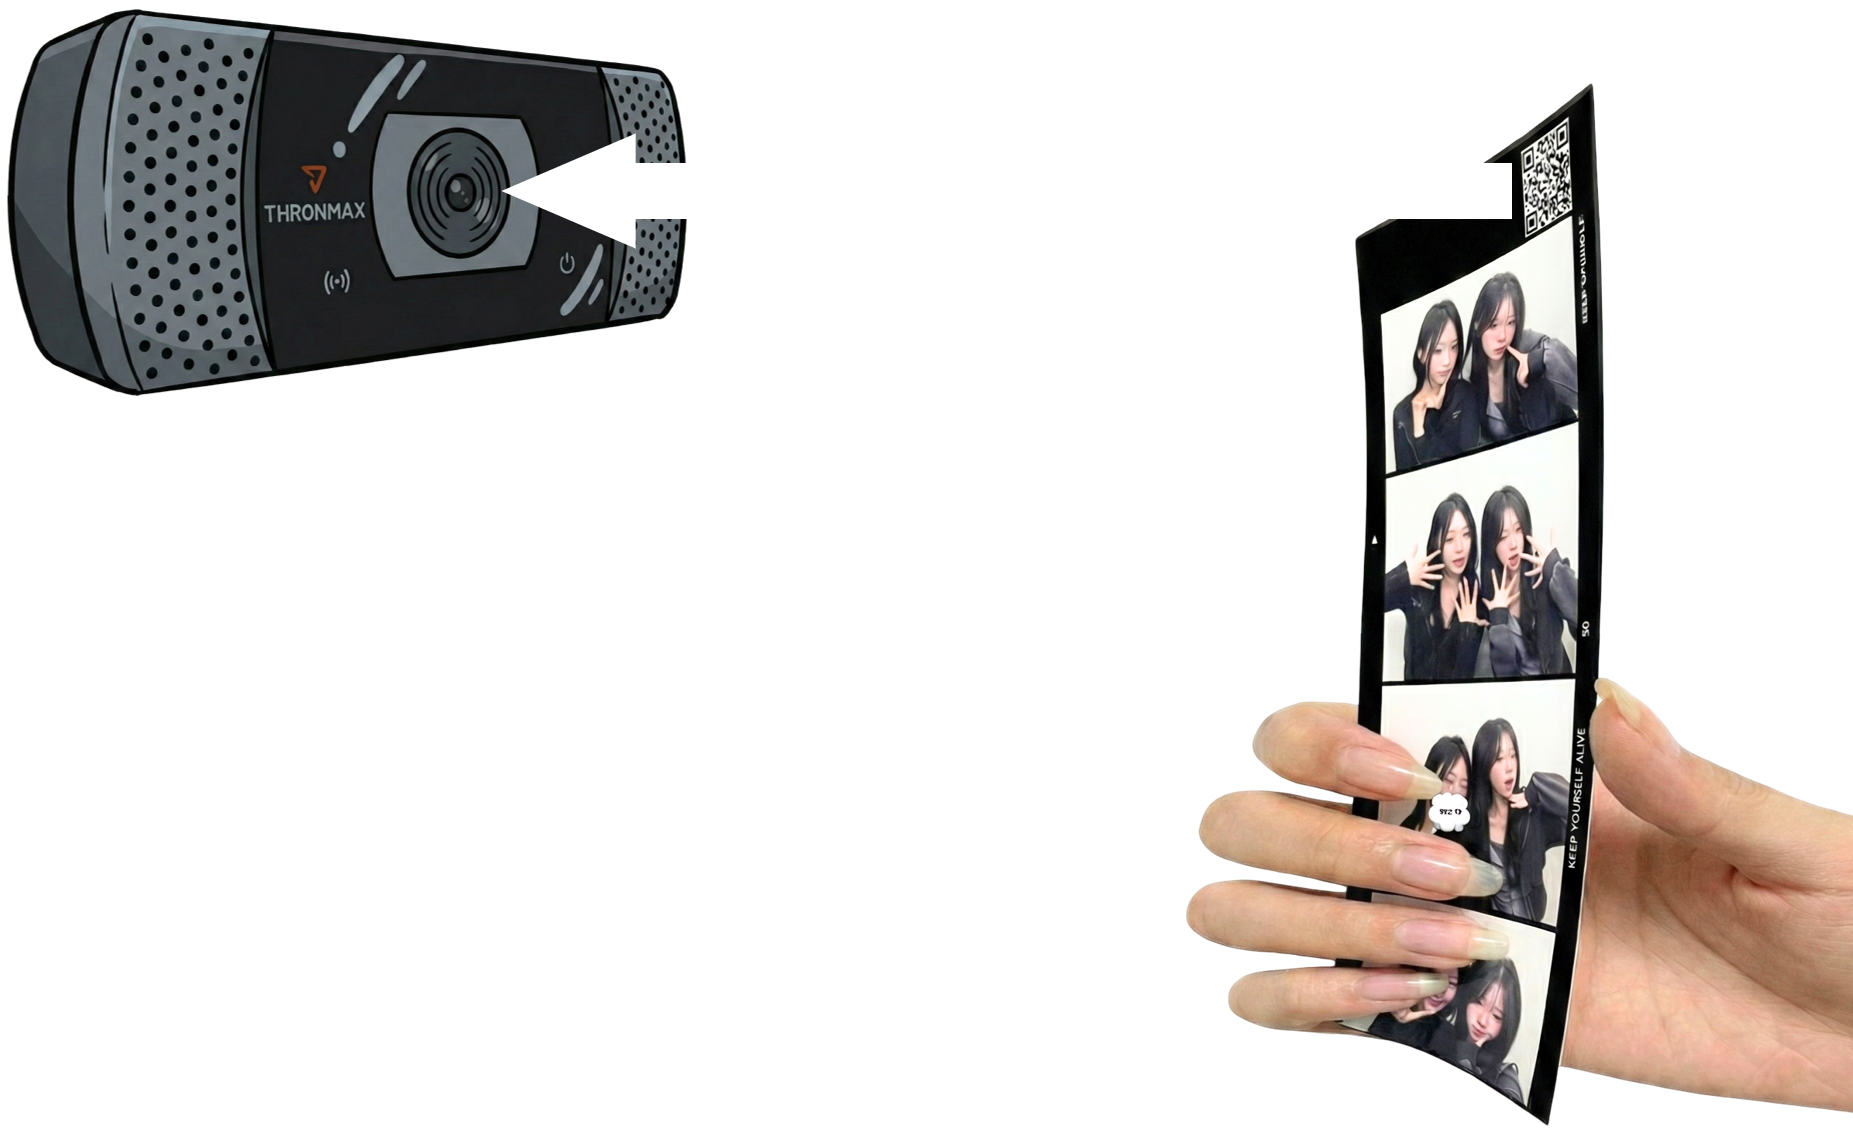
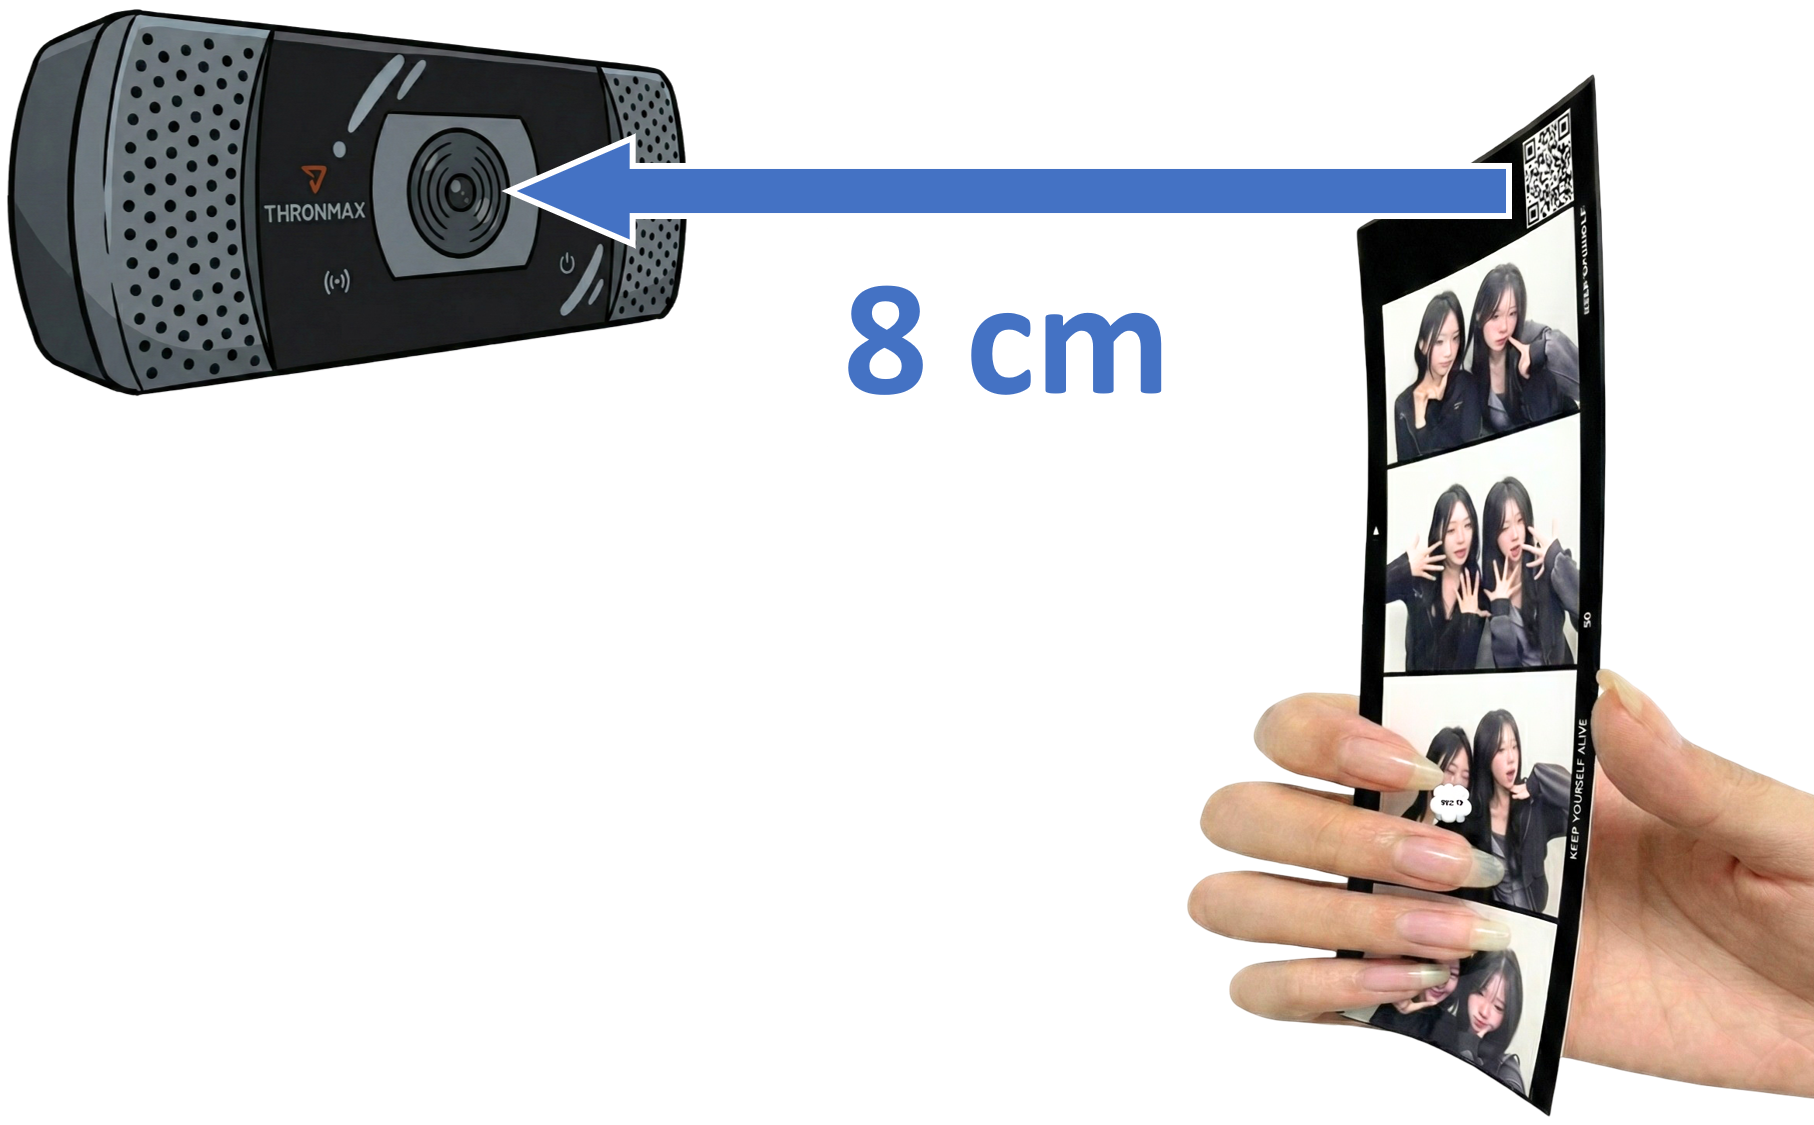
adjust UI QR page

Changed region(s): [[0.0309, 0.0, 1.0, 0.9956], [0.4631, 0.2489, 0.6483, 0.3733]]

diff --git a/src/pages/scan-qr/Page.tsx b/src/pages/scan-qr/Page.tsx
@@ -74,11 +74,11 @@ const ScanQRPage = () => {
 
   return (
     // Container chính - Quay lại Gradient Hồng Đỏ tươi sáng
-    <div className="relative h-screen w-screen overflow-hidden bg-linear-to-br from-[#e60076] via-[#df197f] to-[#fe389e]">
+    <div className="relative h-screen w-screen overflow-hidden bg-white">
       <FloatingStyles />
 
       {/* --- BACKGROUND DECORATION & FLOATING ICONS --- */}
-      <div className="absolute inset-0 overflow-hidden pointer-events-none z-0">
+      <div className="absolute inset-0 overflow-hidden pointer-events-none z-20">
         {/* Nền họa tiết nhẹ */}
         <div className="absolute top-0 left-0 w-full h-full opacity-30 bg-[url('https://www.transparenttextures.com/patterns/cubes.png')]"></div>
         {/* Blobs màu tạo chiều sâu */}
@@ -100,7 +100,7 @@ const ScanQRPage = () => {
               strokeWidth="1.5"
               strokeLinecap="round"
               strokeLinejoin="round"
-              className="text-white drop-shadow-lg"
+              className="text-main-cl drop-shadow-lg"
             >
               <path d="M20.38 3.46 16 2a4 4 0 0 1-8 0L3.62 3.46a2 2 0 0 0-1.34 2.23l.58 3.47a1 1 0 0 0 .99.84H6v10c0 1.1.9 2 2 2h8a2 2 0 0 0 2-2V10h2.15a1 1 0 0 0 .99-.84l.58-3.47a2 2 0 0 0-1.34-2.23z" />
             </svg>
@@ -120,7 +120,7 @@ const ScanQRPage = () => {
               strokeWidth="1.5"
               strokeLinecap="round"
               strokeLinejoin="round"
-              className="text-white drop-shadow-md"
+              className="text-main-cl drop-shadow-md"
             >
               <path d="M10 2v2" />
               <path d="M14 2v2" />
@@ -143,7 +143,7 @@ const ScanQRPage = () => {
               strokeWidth="1.5"
               strokeLinecap="round"
               strokeLinejoin="round"
-              className="text-white drop-shadow-lg"
+              className="text-main-cl drop-shadow-lg"
             >
               <path d="M6 2 3 6v14a2 2 0 0 0 2 2h14a2 2 0 0 0 2-2V6l-3-4Z" />
               <path d="M3 6h18" />
@@ -165,7 +165,7 @@ const ScanQRPage = () => {
               strokeWidth="1.5"
               strokeLinecap="round"
               strokeLinejoin="round"
-              className="text-white drop-shadow-md"
+              className="text-main-cl drop-shadow-md"
             >
               <rect width="14" height="20" x="5" y="2" rx="2" ry="2" />
               <path d="M12 18h.01" />
@@ -186,7 +186,7 @@ const ScanQRPage = () => {
               strokeWidth="1.5"
               strokeLinecap="round"
               strokeLinejoin="round"
-              className="text-white drop-shadow-md"
+              className="text-main-cl drop-shadow-md"
             >
               <rect x="3" y="8" width="18" height="4" rx="1" />
               <path d="M12 8v13" />
@@ -209,7 +209,7 @@ const ScanQRPage = () => {
               strokeWidth="1.5"
               strokeLinecap="round"
               strokeLinejoin="round"
-              className="text-white drop-shadow-md"
+              className="text-main-cl drop-shadow-md"
             >
               <circle cx="12" cy="12" r="6" />
               <polyline points="12 10 12 12 13 13" />
@@ -232,7 +232,7 @@ const ScanQRPage = () => {
               strokeWidth="1.5"
               strokeLinecap="round"
               strokeLinejoin="round"
-              className="text-white drop-shadow-sm"
+              className="text-main-cl drop-shadow-sm"
             >
               <rect width="18" height="18" x="3" y="3" rx="2" ry="2" />
               <circle cx="9" cy="9" r="2" />
@@ -254,7 +254,7 @@ const ScanQRPage = () => {
               strokeWidth="1.5"
               strokeLinecap="round"
               strokeLinejoin="round"
-              className="text-white drop-shadow-sm"
+              className="text-main-cl drop-shadow-sm"
             >
               <path d="m15.5 7.5 2.3 2.3a1 1 0 0 0 1.4 0l2.1-2.1a1 1 0 0 0 0-1.4L19 4" />
               <path d="m21 2-9.6 9.6" />
@@ -265,44 +265,50 @@ const ScanQRPage = () => {
       </div>
 
       {/* --- HƯỚNG DẪN QUÉT QR (BÊN TRÁI) --- */}
-      <div className="5xl:text-xl text-base absolute left-6 top-1/2 w-[28vw] -translate-y-1/2 z-30 pointer-events-auto">
-        <div className="glass-panel rounded-3xl p-4 pb-2 shadow-2xl">
+      <div className="5xl:text-xl text-base absolute left-6 top-4 w-[29vw] z-30 pointer-events-auto">
+        <div className="bg-gray-100 border border-gray-400 rounded-xl p-4 pb-2">
           {/* Header */}
-          <h2 className="text-[1.5rem] font-extrabold text-white text-center mb-4 tracking-wide">
+          <h2 className="text-[1.5rem] font-extrabold text-main-cl text-center mb-4 tracking-wide">
             HƯỚNG DẪN QUÉT QR
           </h2>
 
           {/* Các bước hướng dẫn */}
-          <div className="space-y-4">
+          <div className="flex flex-col items-start space-y-4">
             {/* Bước 1: Hướng QR vào webcam */}
-            <div className="flex flex-col items-center text-center">
-              <p className="text-white font-bold text-[1em] mb-1">
-                <span className="text-white">1. </span>
+            <div className="flex flex-col items-center">
+              <p className="flex gap-2 text-black font-bold text-[1em] mb-1">
+                <span className="flex items-center justify-center leading-none h-8 min-w-8 bg-main-cl rounded-full text-white">
+                  1.
+                </span>
                 <span className="">Hướng mã QR trên ảnh photobooth vào webcam</span>
               </p>
-              <div className="flex gap-2 items-center justify-center mb-3">
+              <div className="flex gap-2 items-center justify-center mb-3 w-full">
                 <img className="w-60" src="/images/design-qr-page/front.png" alt="Photobooth" />
               </div>
             </div>
 
             {/* Bước 1: Hướng QR vào webcam */}
-            <div className="flex flex-col items-center text-center">
-              <p className="text-white font-bold text-[1em] mb-1">
-                <span className="text-white">2. </span>
-                <span>Giữ khoảng cách ảnh với camera 8cm</span>
+            <div className="flex flex-col items-center">
+              <p className="flex gap-2 text-black font-bold text-[1em] mb-1">
+                <span className="flex items-center justify-center leading-none h-8 min-w-8 bg-main-cl rounded-full text-white">
+                  2.
+                </span>
+                <span>Giữ khoảng cách ảnh với camera khoảng 8cm</span>
               </p>
-              <div className="flex gap-2 items-center justify-center mb-3">
+              <div className="flex gap-2 items-center justify-center mb-3 w-full">
                 <img className="w-78" src="/images/design-qr-page/cm8.png" alt="Photobooth" />
               </div>
             </div>
 
             {/* Bước 3: Giữ khoảng cách 8cm */}
-            <div className="flex flex-col items-center text-center">
-              <p className="text-white font-bold text-[1em] mb-1">
-                <span className="text-white">3. </span>
-                <span>Căn chỉnh mã QR của bạn lọt vào khung hình camera</span>
+            <div className="flex flex-col items-center">
+              <p className="flex gap-2 text-black font-bold text-[1em] mb-1">
+                <span className="flex items-center justify-center leading-none h-8 min-w-8 bg-main-cl rounded-full text-white">
+                  3.
+                </span>
+                <span>Đưa mã QR của bạn vào khung hình camera</span>
               </p>
-              <div className="bg-white/30 p-1.5 rounded-2xl flex items-center justify-center mb-3 relative">
+              <div className="bg-white p-1.5 rounded-2xl flex items-center justify-center mb-3 w-full relative">
                 <img className="w-60" src="/images/design-qr-page/chu-y-qr.png" alt="Ruler" />
               </div>
             </div>
@@ -313,35 +319,34 @@ const ScanQRPage = () => {
       {/* HEADER (TOP CENTER) */}
       <section
         id="scan-qr-area"
-        className="pt-6 flex flex-col h-full items-center relativ w-full text-center z-20 pointer-events-none"
+        className="5xl:py-6 pt-6 flex flex-col h-full items-center relative w-full text-center z-20 pointer-events-none"
       >
-        <div className="flex flex-col h-full items-center gap-4 w-[38vw]">
-          <h1 className="smd:text-3xl block text-xl md:text-5xl font-extrabold text-white drop-shadow-lg uppercase tracking-wide">
-            QUÉT MÃ QR PHOTBOOTH
+        <div className="5xl:justify-center flex flex-col h-full items-center gap-4 w-[38vw]">
+          <h1 className="smd:text-3xl block text-xl md:text-5xl font-extrabold text-main-cl uppercase tracking-wide">
+            QUÉT MÃ QR PHOTOBOOTH
           </h1>
-          <p className="smd:px-6 text-white/95 text-base md:text-xl font-bold bg-white/10 backdrop-blur-md px-2 py-1.5 rounded-full inline-block shadow-sm border border-white/20">
-            Đưa mã QR photobooth của bạn vào camera bên dưới, căn chỉnh để quét QR cho rõ nét!
-          </p>
           <QRScanner onScanSuccess={handleData} />
         </div>
       </section>
 
       {/* --- BẠN SẼ NHẬN ĐƯỢC (BÊN PHẢI) --- */}
-      <div className="5xl:text-xl text-base absolute right-6 top-1/2 w-[28vw] -translate-y-1/2 z-30 pointer-events-auto">
-        <div className="glass-panel rounded-3xl p-4 pb-2 shadow-2xl">
+      <div className="5xl:text-xl text-base h-full absolute right-6 top-4 w-[29vw] z-30 pointer-events-auto">
+        <div className="bg-gray-100 border border-gray-400 rounded-xl p-4 pb-2">
           {/* Header */}
-          <h2 className="text-[1.5rem] font-extrabold text-white text-center mb-4 tracking-wide">
+          <h2 className="text-[1.5rem] font-extrabold text-main-cl text-center mb-4 tracking-wide">
             BẠN SẼ NHẬN ĐƯỢC
           </h2>
 
-          <div className="space-y-4">
+          <div className="flex flex-col items-start space-y-4">
             {/* Bước 4: Sản phẩm thiết kế */}
-            <div className="flex flex-col items-center text-center">
-              <p className="text-white font-bold text-[1em] mb-1">
-                <span className="text-white">4. </span>
+            <div className="flex flex-col items-center">
+              <p className="flex gap-2 text-black font-bold text-[1em] mb-1">
+                <span className="flex items-center justify-center leading-none h-8 min-w-8 bg-main-cl rounded-full text-white">
+                  4.
+                </span>
                 <span className="">Sản phẩm thiết kế từ chính bức ảnh vừa chụp của bạn</span>
               </p>
-              <div className="flex flex-col gap-2 items-center justify-center mb-3">
+              <div className="flex flex-col gap-2 items-center justify-center mb-3 w-full">
                 <img
                   className="w-99"
                   src="/images/design-qr-page/demo-ra-intro-1.png"
@@ -356,12 +361,14 @@ const ScanQRPage = () => {
             </div>
 
             {/* Bước 5: Giữ khoảng cách 8cm */}
-            <div className="flex flex-col items-center text-center">
-              <p className="text-white font-bold text-[1em] mb-2">
-                <span className="text-white">5. </span>
+            <div className="flex flex-col items-center">
+              <p className="flex gap-2 text-black font-bold text-[1em] mb-1">
+                <span className="flex items-center justify-center leading-none h-8 min-w-8 bg-main-cl rounded-full text-white">
+                  5.
+                </span>
                 <span>Chọn 1 sản phẩm thiết kế bạn yêu thích và đặt hàng ngay</span>
               </p>
-              <div className="w-full p-1.5 flex items-center justify-evenly mb-3 pt-12 relative">
+              <div className="w-full p-1.5 flex items-center justify-center mb-3 pt-12 relative">
                 <img
                   className="STYLE-add-to-cart-intro--mockup absolute z-10 w-12 top-0 left-1/2 -translate-x-1/2"
                   src="/images/design-qr-page/tui-tote.png"
@@ -391,7 +398,7 @@ const ScanQRPage = () => {
                     strokeWidth="2"
                     strokeLinecap="round"
                     strokeLinejoin="round"
-                    className="w-26 h-26 text-white"
+                    className="w-26 h-26 text-main-cl"
                   >
                     <circle cx="8" cy="21" r="1" />
                     <circle cx="19" cy="21" r="1" />

diff --git a/src/pages/payment/EndOfPayment.tsx b/src/pages/payment/EndOfPayment.tsx
@@ -15,6 +15,8 @@ import { toast } from 'react-toastify'
 import { useNavigate } from 'react-router-dom'
 import { AppNavigator } from '@/utils/navigator'
 import { QRCanvas } from '@/components/custom/QRCanvas'
+import { appLogger } from '@/logging/Logger'
+import { EAppFeature, EAppPage } from '@/utils/enums'
 
 const getColorByPaymentMethod = (method: TPaymentType): string => {
   switch (method) {
@@ -93,9 +95,13 @@ export const EndOfPayment: React.FC<EndOfPaymentProps> = ({ data, resetEndOfPaym
 
   const handlePaymentStatusUpdate = (statusData: TOrderStatusRes) => {
     if (statusData.is_paid) {
+      appLogger.logInfo('Payment completed', EAppPage.PAYMENT, EAppFeature.PAYMENT_SUCCESS)
+
       setPaymentStatus({ status: 'completed' })
       setTransactionCode(statusData.id.toString())
     } else if (statusData.status === 'cancelled') {
+      appLogger.logInfo('Payment completed', EAppPage.PAYMENT, EAppFeature.PAYMENT_CANCEL)
+
       setPaymentStatus({
         status: 'failed',
         reason: 'Đơn hàng đã bị hủy',

diff --git a/src/pages/scan-qr/QRScanner.tsx b/src/pages/scan-qr/QRScanner.tsx
@@ -182,7 +182,7 @@ export default function QRScanner({ onScanSuccess }: QRScannerProps) {
 
   useEffect(() => {
     if (!isReady) return
-    startScanning()
+    // startScanning()
     return () => {
       stopCamera()
     }
@@ -225,8 +225,8 @@ export default function QRScanner({ onScanSuccess }: QRScannerProps) {
         {!cameraIsActive && (
           <div className="absolute top-1/2 -translate-y-1/2 left-1/2 -translate-x-1/2 text-white font-bold text-2xl">
             <SectionLoading
-              message="Đang tải Camera..."
-              classNames={{ message: 'text-white text-xl', shapesContainer: 'text-white' }}
+              message="Đang truy cập Camera..."
+              classNames={{ message: 'text-white text-2xl', shapesContainer: 'text-white' }}
             />
           </div>
         )}

diff --git a/src/App.tsx b/src/App.tsx
@@ -44,7 +44,15 @@ import { UserIdleTracker } from './components/custom/IdleWarningModal'
 import Dev from './dev/pages/Dev'
 
 const IdleCountdown = () => {
-  return <UserIdleTracker idleTimeout={30} modalTimeout={10} />
+  const getIdleTimeout = (): number => {
+    // nếu là trang /qr thì modal timeout là 20s, còn lại là 10s
+    if (window.location.pathname.includes('/qr')) {
+      return 20
+    }
+    return 10
+  }
+
+  return <UserIdleTracker idleTimeout={30} modalTimeout={getIdleTimeout()} />
   // return <></>
 }
 

diff --git a/src/utils/enums.ts b/src/utils/enums.ts
@@ -22,6 +22,10 @@ export enum EAppFeature {
   // Payment Page
   PAYMENT_PROCEED = 'payment-proceed',
   PAYMENT_PROCESS = 'payment-process',
+  PAYMENT_SUCCESS = 'payment-success',
+  PAYMENT_FAILURE = 'payment-failure',
+  PAYMENT_TIMEOUT = 'payment-timeout',
+  PAYMENT_CANCEL = 'payment-cancel',
   // Common features
   VIRTUAL_KEYBOARD = 'virtual-keyboard',
 }
